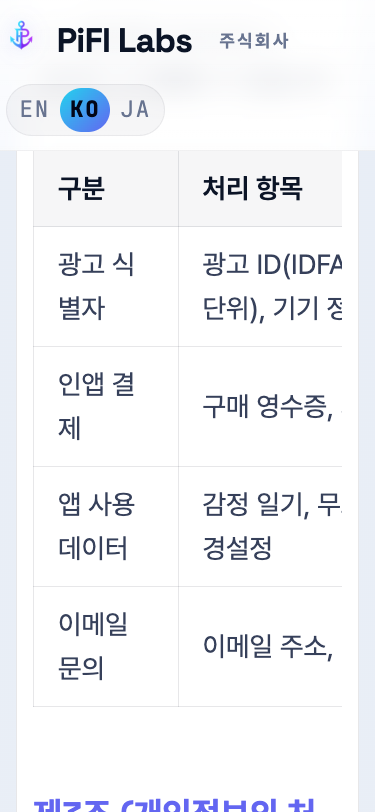
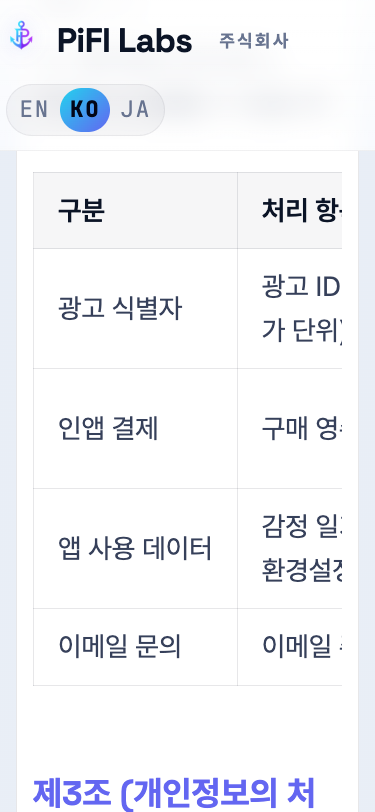
fix: 개인정보처리방침 표의 한국어 항목 가독성 보완

diff --git a/public/styles-log-policy.css b/public/styles-log-policy.css
@@ -36,6 +36,13 @@ html[lang="ko"] .legal-card li {
     word-break: keep-all;
 }
 
+/* Keep short Korean table labels intact even at 200% text size. The table
+   region itself remains horizontally scrollable for the remaining columns. */
+html[lang="ko"] .legal-table-scroll th:first-child,
+html[lang="ko"] .legal-table-scroll td:first-child {
+    white-space: nowrap;
+}
+
 .legal-revised {
     display: block;
     margin-top: 0.35rem;

diff --git a/docs/qa/2026-09-23-log-policy/DESIGN-QA.md b/docs/qa/2026-09-23-log-policy/DESIGN-QA.md
@@ -5,7 +5,8 @@
 - Base: homepage `origin/main` `be32a27ed3da9b9f7d1f028bdb71d623fb90d83f`; this PR changes only the four Log privacy routes, their scoped CSS/table component, test, and this QA evidence. The existing dirty homepage checkout was not edited.
 - Routes: `/ko/apps/pipi-log/privacy/`, `/ja/apps/pipi-log/privacy/`, `/en/apps/pipi-log/privacy/`, legacy English `/apps/pipi-log/privacy/`.
[1 lines of base64/hex data omitted]
-- The first draft had an invisible light-mode heading and a stranded Japanese character at 200% text size; these were found in real screenshots, fixed, rebuilt and rechecked. This is why source-only/overflow-only QA was not sufficient.
[1 lines of base64/hex data omitted]
+- Real screenshots caught defects that numeric overflow checks missed: an invisible light-mode heading, a stranded Japanese title character, and Korean first-column labels breaking inside words at 200% text size. Each was fixed, rebuilt, and visually rechecked.
 
 ## Truthfulness gate
 
@@ -17,15 +18,15 @@
 
 Chrome headless on the exact built HTML/CSS, KO/JA/EN/default × 320/375/768/1280 CSS px × 100%/200% root text size × light/dark system scheme: **64/64 PASS**, 0 document/heading/text-element horizontal overflow, 0 page JS errors. Raw reduced matrix is in `browser-matrix.json`. The site supports both themes; the final test used browser `prefers-color-scheme` without a competing test-injected localStorage startup script. A preliminary harness with a competing injection intermittently missed theme initialization; fresh-context saved-preference retests passed dark 10/10 and light 10/10. This was not counted as a product PASS without the final clean matrix.
 
-All twelve tables remain intact. On 375px/200% light, first table viewport width 309px, scroll content 979px; keyboard focus has a visible outline and two ArrowRight presses moved scrollLeft 0→80px. Native scroll is contained in the region rather than the document. In KO, home link keyboard Enter → `/ko/` HTTP 200, general privacy link click → `/ko/privacy/` HTTP 200, and email link resolves to `mailto:privacy@pifl-labs.com`.
+All twelve tables remain intact. On 375px/200% light, first table viewport width 309px, scroll content 979px; Korean first-column labels (`광고 식별자`, `인앱 결제`, `앱 사용 데이터`, `이메일 문의`) remain whole with 203.7px first-column width. Keyboard focus has a visible outline and ArrowRight moved scrollLeft 0→670px to expose the complete `수집 방법` column; native scroll is contained in the region rather than the document. In KO, home link keyboard Enter → `/ko/` HTTP 200, general privacy link click → `/ko/privacy/` HTTP 200, and email link resolves to `mailto:privacy@pifl-labs.com`.
 
 Representative exact-build screenshots:
 
-- [KO 320px dark](ko-320-dark.png); [KO 375px 200% light](ko-375-200-light.png); [KO table 375px 200%](ko-375-200-table.png)
+- [KO 320px dark](ko-320-dark.png); [KO 375px 200% light](ko-375-200-light.png); [KO table 375px 200% first column](ko-375-200-table.png); [same table keyboard-scrolled to last column](ko-375-200-table-right.png)
 - [JA 375px 200% light](ja-375-200-light.png); [JA 320px 200% light](ja-320-200-light.png)
 - [EN 375px 200% light](en-375-200-light.png)
 
-Visual review: title/product grouping and date hierarchy clear; no one-character Korean/Japanese headline tail in inspected samples; table affordance visible, body text not clipped. These screens represent only the Log privacy routes, not the homepage or other app privacy pages.
+Visual review: title/product grouping and date hierarchy clear; no one-character Korean/Japanese headline tail in inspected samples; Korean table labels no longer split within words; table affordance visible and all columns keyboard-accessible; body text not clipped. These screens represent only the Log privacy routes, not the homepage or other app privacy pages.
 
 ## Automated checks and release limit
 
